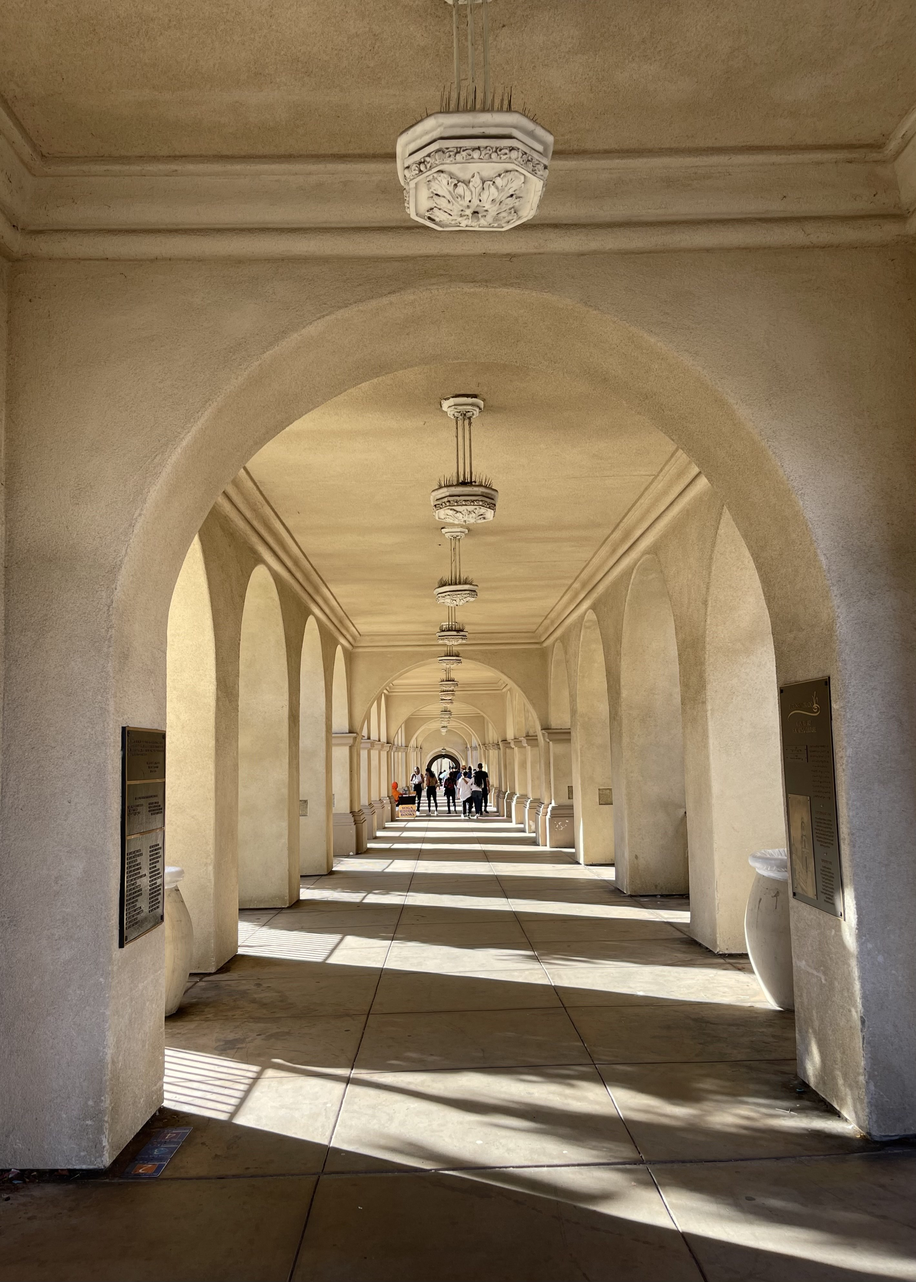
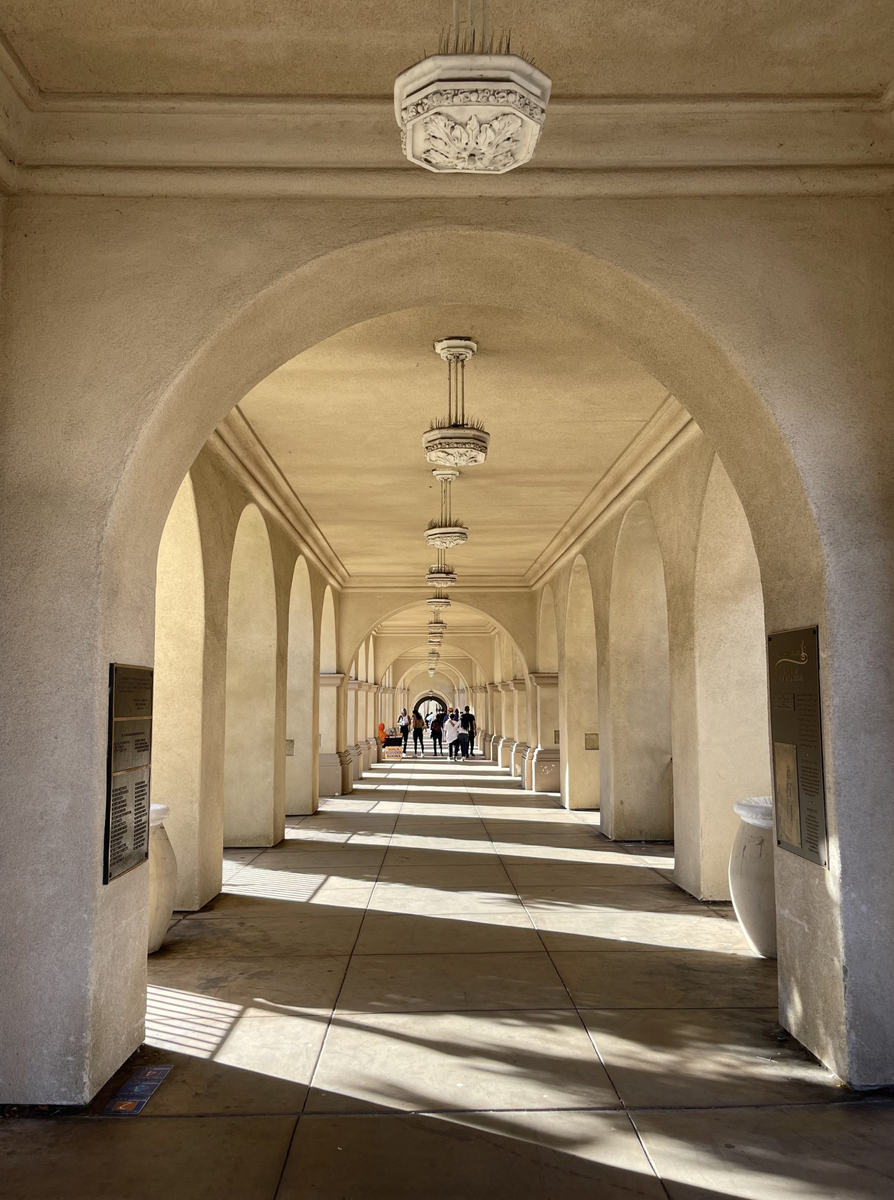
update locations for CA pictures

diff --git a/html5up-phantom/html5up-strata/california.html b/html5up-phantom/html5up-strata/california.html
@@ -29,63 +29,63 @@
 						<div class="row">
 							<article class="col-6 col-12-xsmall work-item">
 								<a href="images/california/ca1.jpg" class="image fit thumb"><img src="images/california/ca1.jpg" alt="" /></a>
-								<h3>Magna sed consequat tempus</h3>
-								<p>Lorem ipsum dolor sit amet nisl sed nullam feugiat.</p>
+								<h3>Coronado Beach</h3>
+								<p>Ocean Blvd, Coronado, CA</p>
 							</article>
 							<article class="col-6 col-12-xsmall work-item">
 								<a href="images/california/ca2.jpg" class="image fit thumb"><img src="images/california/ca2.jpg" alt="" /></a>
-								<h3>Ultricies lacinia interdum</h3>
-								<p>Lorem ipsum dolor sit amet nisl sed nullam feugiat.</p>
+								<h3>Coronado Beach</h3>
+								<p>Ocean Blvd, Coronado, CA</p>
 							</article>
 							<article class="col-6 col-12-xsmall work-item">
 								<a href="images/california/ca3.jpg" class="image fit thumb"><img src="images/california/ca3.jpg" alt="" /></a>
-								<h3>Tortor metus commodo</h3>
-								<p>Lorem ipsum dolor sit amet nisl sed nullam feugiat.</p>
+								<h3>Hogwarts Castle</h3>
+								<p>Universal Studios Hollywood, CA</p>
 							</article>
 							<article class="col-6 col-12-xsmall work-item">
 								<a href="images/california/ca4.jpg" class="image fit thumb"><img src="images/california/ca4.jpg" alt="" /></a>
-								<h3>Quam neque phasellus</h3>
-								<p>Lorem ipsum dolor sit amet nisl sed nullam feugiat.</p>
+								<h3>Santa Monica Pier</h3>
+								<p>Santa Monica, CA</p>
 							</article>
 							<article class="col-6 col-12-xsmall work-item">
 								<a href="images/california/ca5.jpg" class="image fit thumb"><img src="images/california/ca5.jpg" alt="" /></a>
-								<h3>Nunc enim commodo aliquet</h3>
-								<p>Lorem ipsum dolor sit amet nisl sed nullam feugiat.</p>
+								<h3>Santa Monica Pier</h3>
+								<p>Santa Monica, CA</p>
 							</article>
 							<article class="col-6 col-12-xsmall work-item">
 								<a href="images/california/ca8.jpg" class="image fit thumb"><img src="images/california/ca8.jpg" alt="" /></a>
-								<h3>Risus ornare lacinia</h3>
-								<p>Lorem ipsum dolor sit amet nisl sed nullam feugiat.</p>
+								<h3>Balboa Park</h3>
+								<p>El Prado, San Diego, CA</p>
 							</article>
 							<article class="col-6 col-12-xsmall work-item">
 								<a href="images/california/ca9.jpg" class="image fit thumb"><img src="images/california/ca9.jpg" alt="" /></a>
-								<h3>Nunc enim commodo aliquet</h3>
-								<p>Lorem ipsum dolor sit amet nisl sed nullam feugiat.</p>
+								<h3>Coronado Beach</h3>
+								<p>Orange Ave, Coronado, CA</p>
 							</article>
 							<article class="col-6 col-12-xsmall work-item">
 								<a href="images/california/ca10.jpg" class="image fit thumb"><img src="images/california/ca10.jpg" alt="" /></a>
-								<h3>Risus ornare lacinia</h3>
-								<p>Lorem ipsum dolor sit amet nisl sed nullam feugiat.</p>
+								<h3>Coronado Beach</h3>
+								<p>Ocean Blvd, Coronado, CA</p>
 							</article>
 							<article class="col-6 col-12-xsmall work-item">
 								<a href="images/california/ca11.jpg" class="image fit thumb"><img src="images/california/ca11.jpg" alt="" /></a>
-								<h3>Nunc enim commodo aliquet</h3>
-								<p>Lorem ipsum dolor sit amet nisl sed nullam feugiat.</p>
+								<h3>Babcock & Story Bar</h3>
+								<p>Orange Ave, Coronado, CA</p>
 							</article>
 							<article class="col-6 col-12-xsmall work-item">
 								<a href="images/california/ca12.jpg" class="image fit thumb"><img src="images/california/ca12.jpg" alt="" /></a>
-								<h3>Risus ornare lacinia</h3>
-								<p>Lorem ipsum dolor sit amet nisl sed nullam feugiat.</p>
+								<h3>Balboa Park</h3>
+								<p>El Prado, San Diego, CA</p>
 							</article>
 							<article class="col-6 col-12-xsmall work-item">
 								<a href="images/california/ca13.jpg" class="image fit thumb"><img src="images/california/ca13.jpg" alt="" /></a>
-								<h3>Risus ornare lacinia</h3>
-								<p>Lorem ipsum dolor sit amet nisl sed nullam feugiat.</p>
+								<h3>Griffith Observatory</h3>
+								<p>E Observatory Rd, Los Angeles, CA</p>
 							</article>
 							<article class="col-6 col-12-xsmall work-item">
 								<a href="images/california/ca15.jpg" class="image fit thumb"><img src="images/california/ca15.jpg" alt="" /></a>
-								<h3>Risus ornare lacinia</h3>
-								<p>Lorem ipsum dolor sit amet nisl sed nullam feugiat.</p>
+								<h3>Manhattan Beach Pier</h3>
+								<p>Manhattan Beach Blvd, Manhattan Beach, CA</p>
 							</article>
 						</div>
 					</section>
